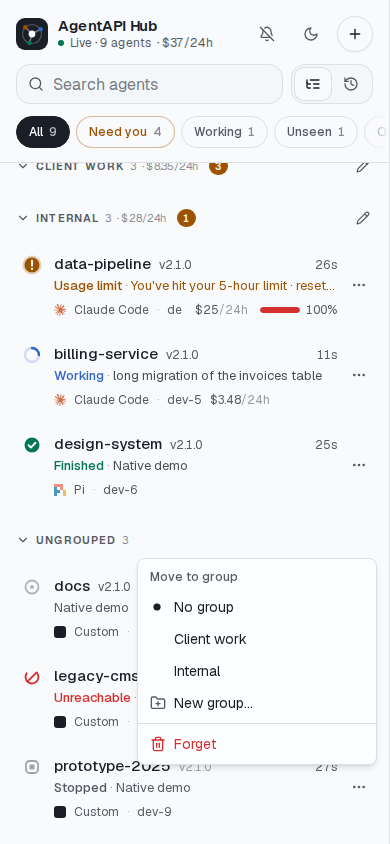
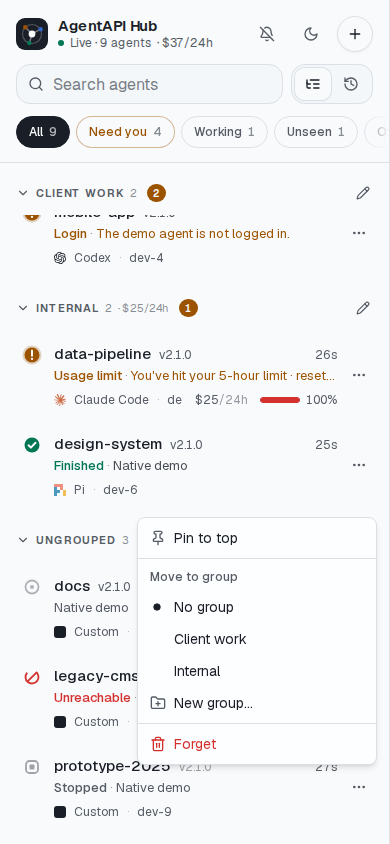
docs: hub screenshots with pinned agents
capture-docs.mjs pins checkout-api and billing-service once it set the
groups: the hub's list shots open with the Pinned section, and a row's
menu starts with Pin to top. Before the muted row's shot it waits for
the closed menu to hand the focus back, then scrolls the list to the
top, where that row shows whole below the pinned ones. hub-empty.png
has p among the list's keys. The screenshots README and the images'
descriptions say what they show now.

diff --git a/docs/screenshots/README.md b/docs/screenshots/README.md
@@ -20,11 +20,11 @@ uncommitted changes):
 - `agentapi hub serve` with nine `native-demo` instances that join it with `agentapi hub join`,
   posing as Claude Code, Codex and Pi, for the hub: one asks for an approval, one asks questions,
   one needs a login, one hit its usage limit, one works, one finished a task, one is idle, one
-  stopped and one was killed, so the hub can't reach it. Six are in two groups. The one that asks
-  questions can run a binary stamped with an older version (`AGENTAPI_OLDER_BINARY`), so that it
-  shows as older than the hub: 2.0.0 beside the hub's 2.1.0 in the screenshots. A second, empty hub
-  shows the guide for the first agents. The rows name the machine; the screenshots show
-  placeholders (`dev-1` and so on).
+  stopped and one was killed, so the hub can't reach it. Six are in two groups, and two of those
+  are pinned to the top. The one that asks questions can run a binary stamped with an older
+  version (`AGENTAPI_OLDER_BINARY`), so that it shows as older than the hub: 2.0.0 beside the
+  hub's 2.1.0 in the screenshots. A second, empty hub shows the guide for the first agents. The
+  rows name the machine; the screenshots show placeholders (`dev-1` and so on).
 
 ## Gallery
 
@@ -74,11 +74,11 @@ device scale factor of 1.
 | [hub-instance.png](hub-instance.png) | An agent open beside the list, its approval ready to answer |
 | [hub-empty.png](hub-empty.png) | The guide an empty hub shows: the hub's address, the join command and a prompt for an agent on the machine, the secret masked |
 | [hub-sign-in.png](hub-sign-in.png) | Signing in to the hub, beside its picture of agents in their states |
-| [hub-list.png](hub-list.png) | The hub's list in two groups and Ungrouped, with every state's glyph: approval, question, login, usage limit, working, finished, idle, unreachable, stopped; and each agent's AgentAPI version, one older than the hub |
+| [hub-list.png](hub-list.png) | The hub's list: two pinned agents, then two groups and Ungrouped, with every state's glyph: approval, question, login, usage limit, working, finished, idle, unreachable, stopped; and each agent's AgentAPI version, one older than the hub |
 | [hub-add.png](hub-add.png) | The Add dialog: joining a machine (the hub's address, updates from the hub, the command and a prompt for an agent, the secret masked), or adding an instance by its URL and token |
-| [hub-recent.png](hub-recent.png) | The hub's list by the agents' latest changes: one list without group headers, the most recent first, and each row's group where it has room |
-| [hub-phone.png](hub-phone.png) | The hub's list on a phone, in groups |
-| [hub-phone-menu.png](hub-phone-menu.png) | A row's menu on a phone: its group, a new one, and Forget |
+| [hub-recent.png](hub-recent.png) | The hub's list by the agents' latest changes: the pinned agents, then one list without group headers, the most recent first, and each row's group where it has room |
+| [hub-phone.png](hub-phone.png) | The hub's list on a phone: the pinned agents, then the groups |
+| [hub-phone-menu.png](hub-phone-menu.png) | A row's menu on a phone: Pin to top, its group, a new one, and Forget |
 | [hub-muted.png](hub-muted.png) | The list on a phone with an agent's login wait muted |
 | [hub-spend.png](hub-spend.png) | The overview's Spend card: the last 24 hours and 7 days, and the agents that spent the most |
 | [hub-versions.png](hub-versions.png) | The overview's Versions card: how many agents run each AgentAPI version, on which machines, and how to update the older ones |

diff --git a/docs/hub.zh-TW.md b/docs/hub.zh-TW.md
@@ -270,7 +270,7 @@ hub 舊。
 
 ### 清單
 
-![清單會顯示的每種狀態](screenshots/hub-list.png)
+![清單會顯示的每種狀態，最上方是兩個釘選的 agent](screenshots/hub-list.png)
 
 每一列顯示 agent 的名稱（`--name`，預設為工作目錄名稱）和 AgentAPI 版本（見[版本](#版本)）、它在等
 什麼或在做什麼、多久以前、agent 和機器；佇列有訊息、最近 24 小時的花費（見[花費](#花費)），以及用量限制超過 60% 時也會顯示。AgentAPI 正在更新或更新失敗時，會另起一行顯示（見[從 hub 更新](#從-hub-更新)）。
@@ -304,7 +304,7 @@ hub 舊。
 
 ### 群組
 
-![手機上一列的選單：群組、新群組和 Forget](screenshots/hub-phone-menu.png)
+![手機上一列的選單：Pin to top、群組、新群組和 Forget](screenshots/hub-phone-menu.png)
 
 可以依客戶、專案或機器，把實例分成自己的群組。每一列最後的 **⋯** 可以把實例移到某個群組、
 **New group…**（新群組）或 **No group**（不分組）。同一個選單也能釘選（見[釘選](#釘選)）、靜音
@@ -320,7 +320,7 @@ hub 舊。
 
 ### 最近變動
 
-![依 agent 最近一次變動排序的清單：沒有群組標題，最近的排最前面](screenshots/hub-recent.png)
+![依 agent 最近一次變動排序的清單：釘選的在最上方，其他的沒有群組標題，最近的排最前面](screenshots/hub-recent.png)
 
 搜尋框旁的切換鈕決定清單的排序。**Groups** 是預設的排序，也就是上面說的：在每個群組內，需要你處理的
 排最前面。**Recent changes** 則把[釘選](#釘選)以外的實例排成一個清單，最近變動的排最前面，不管群組

diff --git a/docs/hub.md b/docs/hub.md
@@ -302,7 +302,7 @@ update them. On the machine:
 
 ### The list
 
-![Every state the list shows](screenshots/hub-list.png)
+![Every state the list shows, below two pinned agents](screenshots/hub-list.png)
 
 Each row shows the agent's name (`--name`, by default its working directory's name) and AgentAPI
 version ([Versions](#versions)), what it waits for or does, how long ago, the agent and the machine;
@@ -340,7 +340,7 @@ a state it doesn't know as Unknown, with a question mark; reload the page.
 
 ### Groups
 
-![A row's menu on a phone: its group, a new one, and Forget](screenshots/hub-phone-menu.png)
+![A row's menu on a phone: Pin to top, its group, a new one, and Forget](screenshots/hub-phone-menu.png)
 
 Sort the instances into groups of your own, by client, project or machine. The **⋯** at the end of
 each row moves the instance to a group, to a **New group…**, or to **No group**. The same menu pins
@@ -358,7 +358,7 @@ with no instance left disappears.
 
 ### Recent changes
 
-![The list by the agents' latest changes: one list without group headers, the most recent first](screenshots/hub-recent.png)
+![The list by the agents' latest changes: the pinned agents, then one list without group headers, the most recent first](screenshots/hub-recent.png)
 
 The switch beside the search sets the list's order. **Groups**, the default, is the order above:
 what needs you first within each group. **Recent changes** is one list below the
